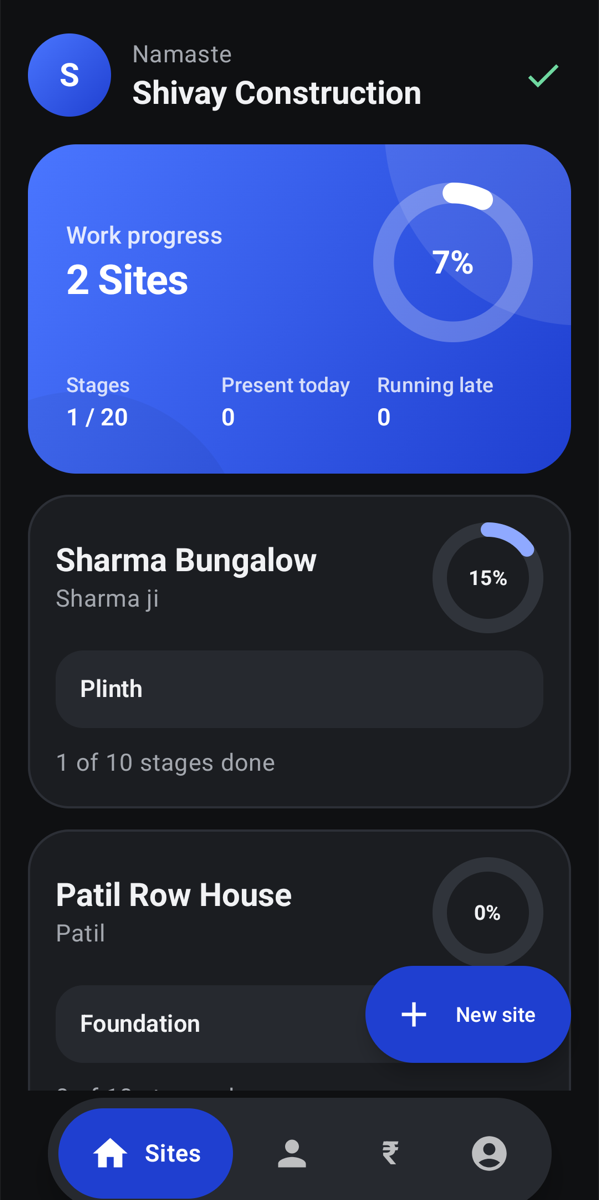
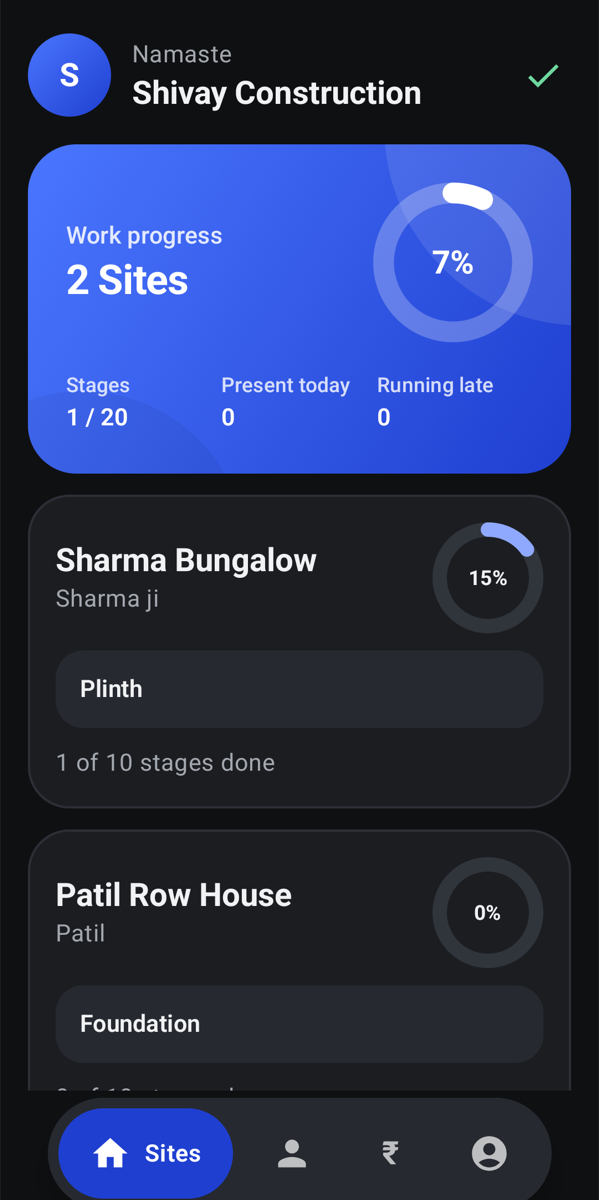
Refresh SiteKitab screenshots and owner page Hindi wording (#8)
* SiteKitab home and people screenshots without the floating buttons

* Owner page: Hindi wording to match the app

Changed region(s): [[0.601, 0.8017, 0.9616, 0.8942]]

diff --git a/public/sitekitab/owner.html b/public/sitekitab/owner.html
@@ -104,10 +104,10 @@
   // only key to it; the page reads nothing else and writes nothing.
   var hindi = (navigator.language || '').toLowerCase().indexOf('hi') === 0;
   var words = hindi ? {
-    stages: 'काम के चरण', money: 'पैसे का हिसाब', contract: 'कुल ठेका', paid: 'आपने अब तक दिया', due: 'बाकी',
+    stages: 'काम के स्टेज', money: 'पैसे का हिसाब', contract: 'कुल ठेका', paid: 'आपने अब तक दिया', due: 'बाकी',
     start: 'काम शुरू', target: 'पूरा करने की तारीख', s0: 'शुरू नहीं', s1: 'चालू', s2: 'पूरा', call: 'कॉल करें: ',
-    updated: 'अपडेट: ', none: 'यह लिंक बंद है या गलत है। अपने कॉन्ट्रैक्टर से नया लिंक माँगें।', fail: 'पेज नहीं खुल सका। इंटरनेट जाँचें और दोबारा खोलें।',
-    cash: 'नकद', upi: 'UPI'
+    updated: 'अपडेट: ', none: 'यह लिंक बंद है या गलत है। अपने कॉन्ट्रैक्टर से नया लिंक माँगें।', fail: 'पेज नहीं खुला। इंटरनेट चेक करें और फिर से खोलें।',
+    cash: 'कैश', upi: 'UPI'
   } : {
     stages: 'Work stages', money: 'Payments', contract: 'Contract amount', paid: 'You have paid', due: 'Balance',
     start: 'Work started', target: 'To be finished by', s0: 'Not started', s1: 'In progress', s2: 'Done', call: 'Call ',
